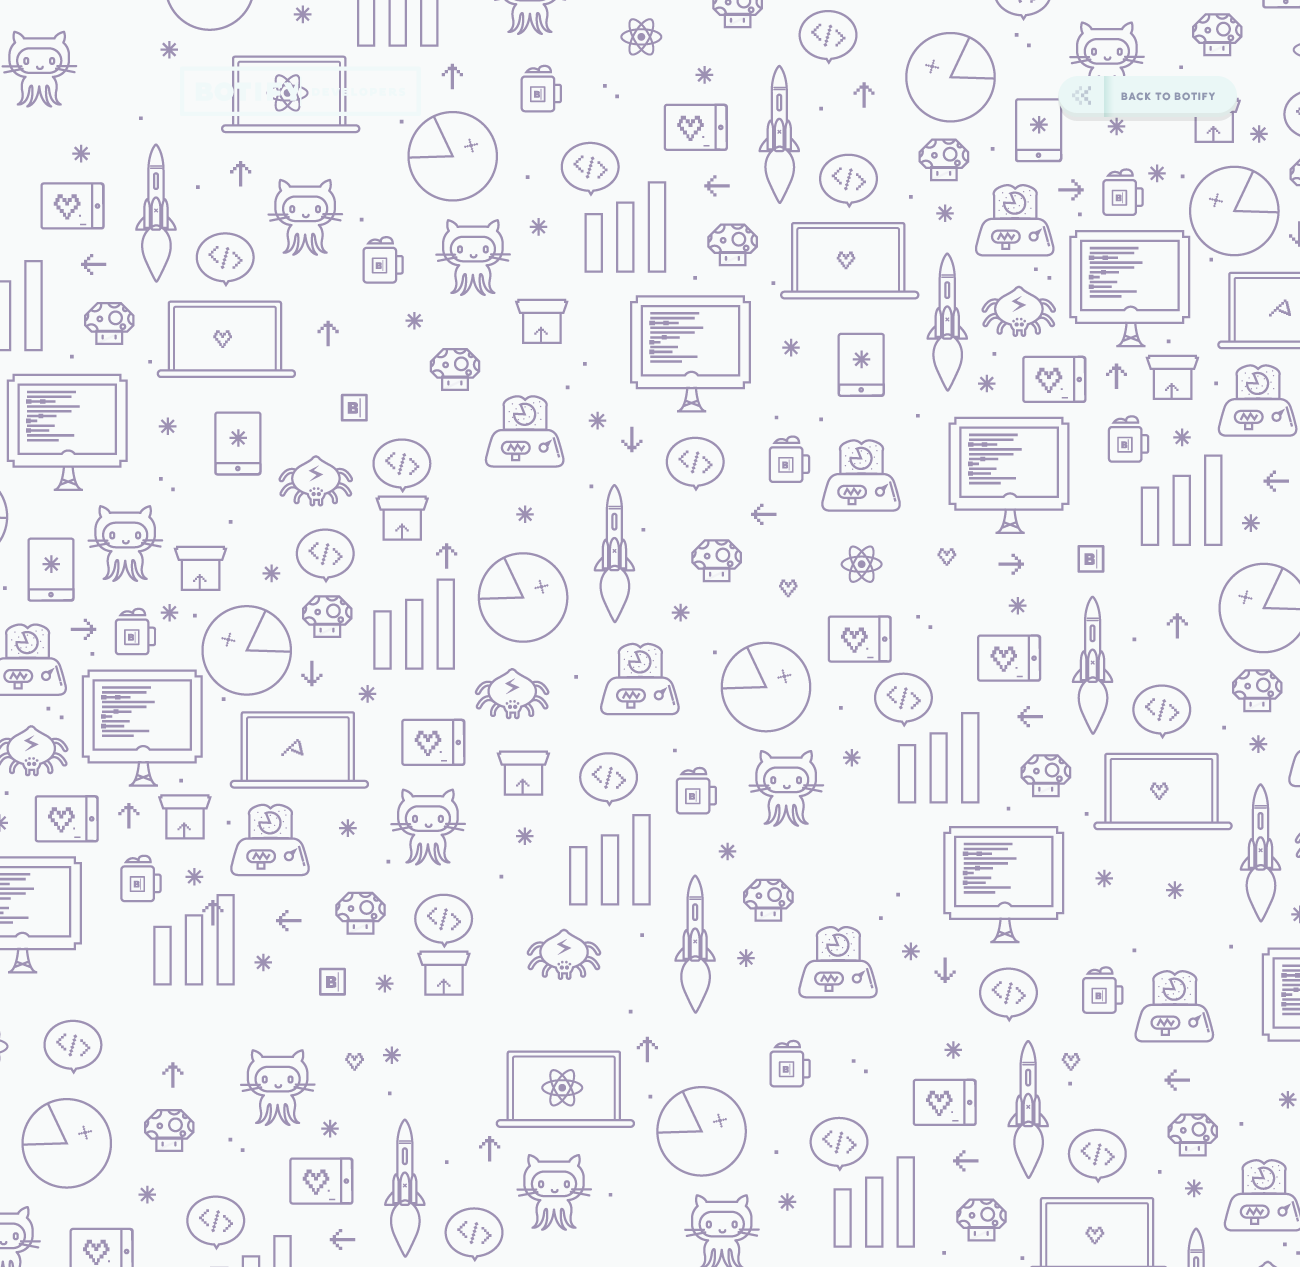
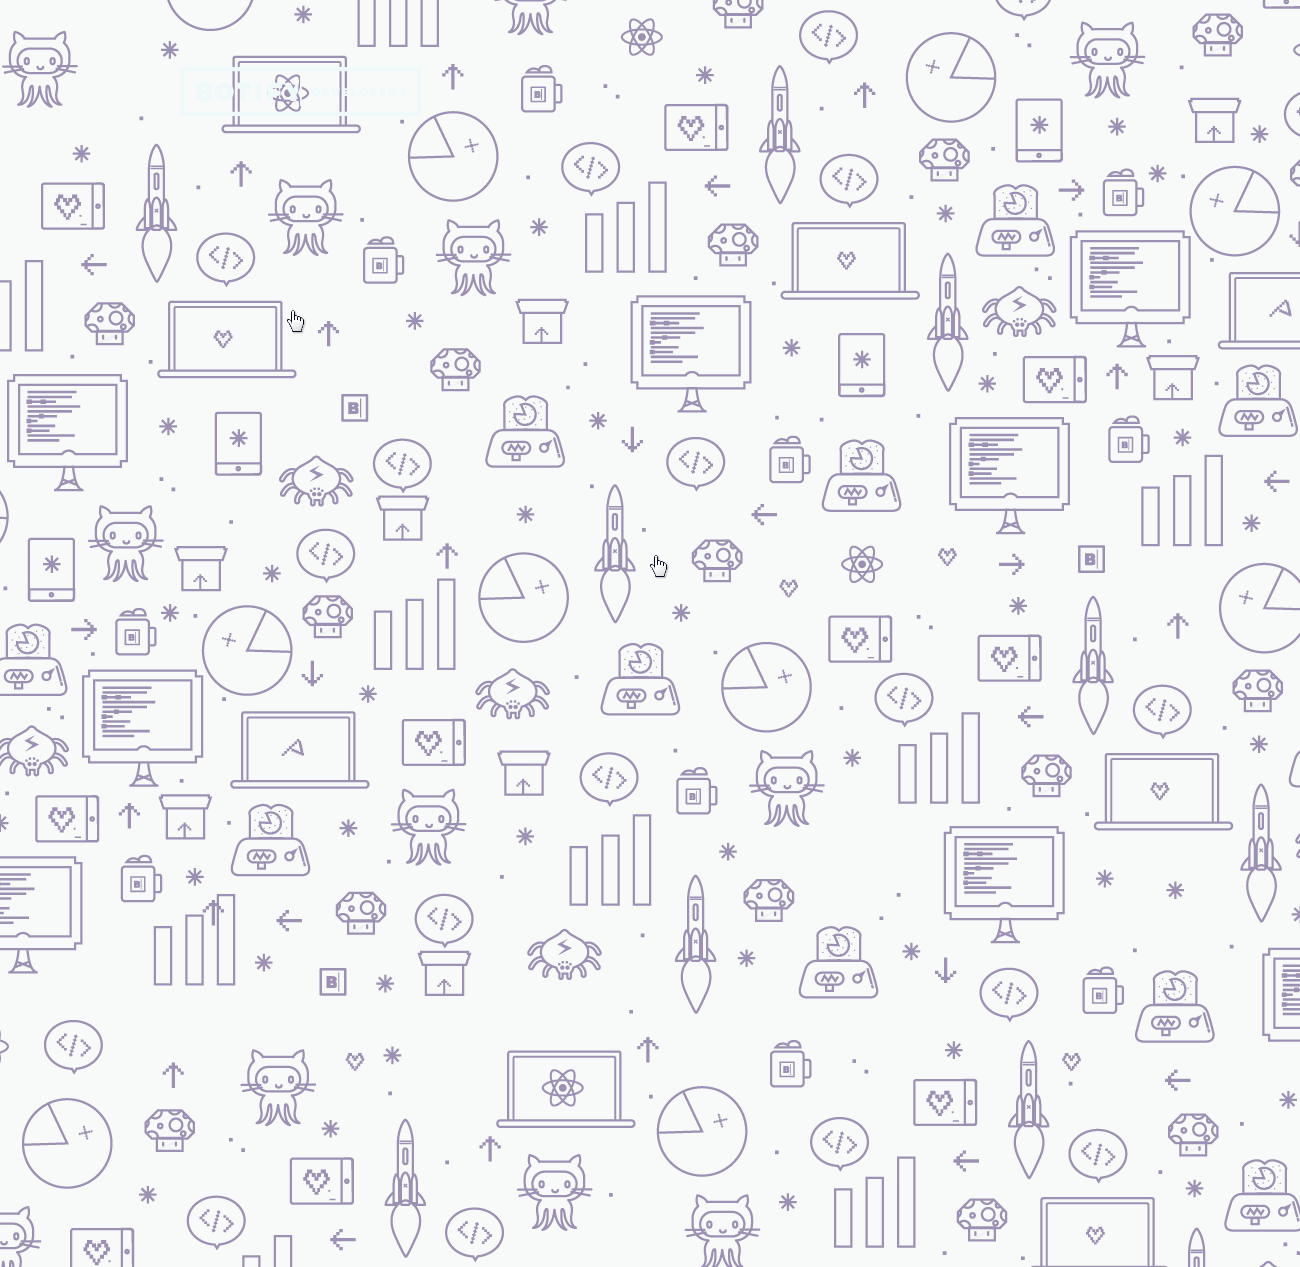
draft

diff --git a/botify_docs/static/style/css/commun.css b/botify_docs/static/style/css/commun.css
@@ -300,56 +300,55 @@ body {
   background: -webkit-linear-gradient(left, rgba(104, 81, 137, 0.9), rgba(104, 81, 137, 0.9)), url("../images/commun-pattern.png");
   background: -o-linear-gradient(left, rgba(104, 81, 137, 0.9), rgba(104, 81, 137, 0.9)), url("../images/commun-pattern.png");
   background: linear-gradient(to right, rgba(104, 81, 137, 0.9), rgba(104, 81, 137, 0.9)), url("../images/commun-pattern.png");
-  background-size: cover;
 }
-/* line 15, ../sass/commun.scss */
+/* line 14, ../sass/commun.scss */
 body .inner-wrapper {
   width: 90%;
   height: inherit;
   margin: auto;
 }
-/* line 21, ../sass/commun.scss */
+/* line 20, ../sass/commun.scss */
 body .header {
   margin-top: 65px;
 }
-/* line 24, ../sass/commun.scss */
+/* line 23, ../sass/commun.scss */
 body .header .botify-developer-logo {
   width: 241px;
   height: 50px;
   background: url("../images/botify-developers-logo.png") no-repeat;
 }
-/* line 31, ../sass/commun.scss */
+/* line 30, ../sass/commun.scss */
 body .main-content {
   display: flex;
   margin-top: 40px;
   background-color: #fff;
 }
-/* line 36, ../sass/commun.scss */
+/* line 35, ../sass/commun.scss */
 body .main-content .sidebar {
   padding-top: 80px;
   padding-left: 66px;
   background: #f8f5f5;
 }
-/* line 41, ../sass/commun.scss */
+/* line 40, ../sass/commun.scss */
 body .main-content .sidebar .sidebar__header {
   margin-bottom: 20px;
   color: #cebae9;
   font-family: "Katahdin Round";
   font-size: 20px;
 }
-/* line 48, ../sass/commun.scss */
+/* line 47, ../sass/commun.scss */
 body .main-content .sidebar .sidebar__menu {
   width: 132px;
 }
-/* line 51, ../sass/commun.scss */
+/* line 50, ../sass/commun.scss */
 body .main-content .sidebar .sidebar__menu .sidebar__group {
   cursor: pointer;
 }
-/* line 54, ../sass/commun.scss */
+/* line 53, ../sass/commun.scss */
 body .main-content .sidebar .sidebar__menu .sidebar__group + .sidebar__group {
   margin-top: 10px;
 }
-/* line 58, ../sass/commun.scss */
+/* line 57, ../sass/commun.scss */
 body .main-content .sidebar .sidebar__menu .sidebar__group .sidebar__group-header {
   font-weight: bold;
   color: #3e3a3a;
@@ -357,54 +356,54 @@ body .main-content .sidebar .sidebar__menu .sidebar__group .sidebar__group-heade
   margin-bottom: 10px;
   border-bottom: 1px solid #e4dbeb;
 }
-/* line 67, ../sass/commun.scss */
+/* line 66, ../sass/commun.scss */
 body .main-content .sidebar .sidebar__menu .sidebar__group.open + .sidebar__group {
   margin-top: 40px;
 }
-/* line 71, ../sass/commun.scss */
+/* line 70, ../sass/commun.scss */
 body .main-content .sidebar .sidebar__menu .sidebar__group.open .sidebar__group-header {
   color: #cebae9;
 }
-/* line 74, ../sass/commun.scss */
+/* line 73, ../sass/commun.scss */
 body .main-content .sidebar .sidebar__menu .sidebar__group.open .sidebar__group-body {
   display: block;
 }
-/* line 79, ../sass/commun.scss */
+/* line 78, ../sass/commun.scss */
 body .main-content .sidebar .sidebar__menu .sidebar__group .sidebar__group-body {
   display: none;
 }
-/* line 82, ../sass/commun.scss */
+/* line 81, ../sass/commun.scss */
 body .main-content .sidebar .sidebar__menu .sidebar__group .sidebar__group-body .sidebar__group-item {
   color: #978e8e;
   font-weight: bold;
   cursor: pointer;
 }
-/* line 87, ../sass/commun.scss */
+/* line 86, ../sass/commun.scss */
 body .main-content .sidebar .sidebar__menu .sidebar__group .sidebar__group-body .sidebar__group-item + .sidebar__group-item {
   margin-top: 20px;
 }
-/* line 91, ../sass/commun.scss */
+/* line 90, ../sass/commun.scss */
 body .main-content .sidebar .sidebar__menu .sidebar__group .sidebar__group-body .sidebar__group-item.active, body .main-content .sidebar .sidebar__menu .sidebar__group .sidebar__group-body .sidebar__group-item:hover {
   color: #685189;
 }
-/* line 101, ../sass/commun.scss */
+/* line 100, ../sass/commun.scss */
 body .main-content .left-content {
   padding-top: 80px;
   margin-left: 20px;
 }
-/* line 106, ../sass/commun.scss */
+/* line 105, ../sass/commun.scss */
 body .main-content .left-content .left-content__breadcrumb .breadcrumb {
   background-color: transparent;
 }
-/* line 109, ../sass/commun.scss */
+/* line 108, ../sass/commun.scss */
 body .main-content .left-content .left-content__breadcrumb .breadcrumb a {
   color: #c1b3b3;
 }
-/* line 115, ../sass/commun.scss */
+/* line 114, ../sass/commun.scss */
 body .main-content .left-content .left-content__header {
   margin-bottom: 57px;
 }
-/* line 118, ../sass/commun.scss */
+/* line 117, ../sass/commun.scss */
 body .main-content .left-content .left-content__header .left-content__title {
   padding-bottom: 25px;
   padding-left: 15px;
@@ -414,37 +413,37 @@ body .main-content .left-content .left-content__header .left-content__title {
   font-size: 59px;
   text-transform: uppercase;
 }
-/* line 128, ../sass/commun.scss */
+/* line 127, ../sass/commun.scss */
 body .main-content .left-content .left-content__header .left-content__icon {
   width: 66px;
   height: 113px;
   background: url("../images/icons/getting-started-icon.png") no-repeat;
 }
-/* line 136, ../sass/commun.scss */
+/* line 135, ../sass/commun.scss */
 body .main-content .left-content .left-content__body .left-content__body-content {
   padding-left: 15px;
 }
-/* line 138, ../sass/commun.scss */
+/* line 137, ../sass/commun.scss */
 body .main-content .left-content .left-content__body .left-content__body-content .section {
   margin-bottom: 30px;
 }
-/* line 141, ../sass/commun.scss */
+/* line 140, ../sass/commun.scss */
 body .main-content .left-content .left-content__body .left-content__body-content .section .section__header {
   margin-bottom: 5px;
 }
-/* line 144, ../sass/commun.scss */
+/* line 143, ../sass/commun.scss */
 body .main-content .left-content .left-content__body .left-content__body-content .section .section__header .section__header-title {
   color: #ce4a57;
   font-family: "Katahdin Round";
   font-weight: bold;
   text-transform: uppercase;
 }
-/* line 153, ../sass/commun.scss */
+/* line 152, ../sass/commun.scss */
 body .main-content .left-content .left-content__body .left-content__body-content .section .section__body p {
   color: #463f3f;
   line-height: 25px;
 }
-/* line 157, ../sass/commun.scss */
+/* line 156, ../sass/commun.scss */
 body .main-content .left-content .left-content__body .left-content__body-content .section .section__body p a {
   color: #e85d6b;
   text-decoration: none;

diff --git a/botify_docs/static/style/sass/commun.scss b/botify_docs/static/style/sass/commun.scss
@@ -10,7 +10,6 @@ body {
   background: -webkit-linear-gradient(left, rgba(104, 81, 137, 0.9), rgba(104, 81, 137, 0.9)), url("../images/commun-pattern.png");
   background: -o-linear-gradient(left, rgba(104, 81, 137, 0.9), rgba(104, 81, 137, 0.9)), url("../images/commun-pattern.png");
   background: linear-gradient(to right, rgba(104, 81, 137, 0.9), rgba(104, 81, 137, 0.9)), url("../images/commun-pattern.png");
-  background-size: cover;
 
   .inner-wrapper {
     width: 90%;
